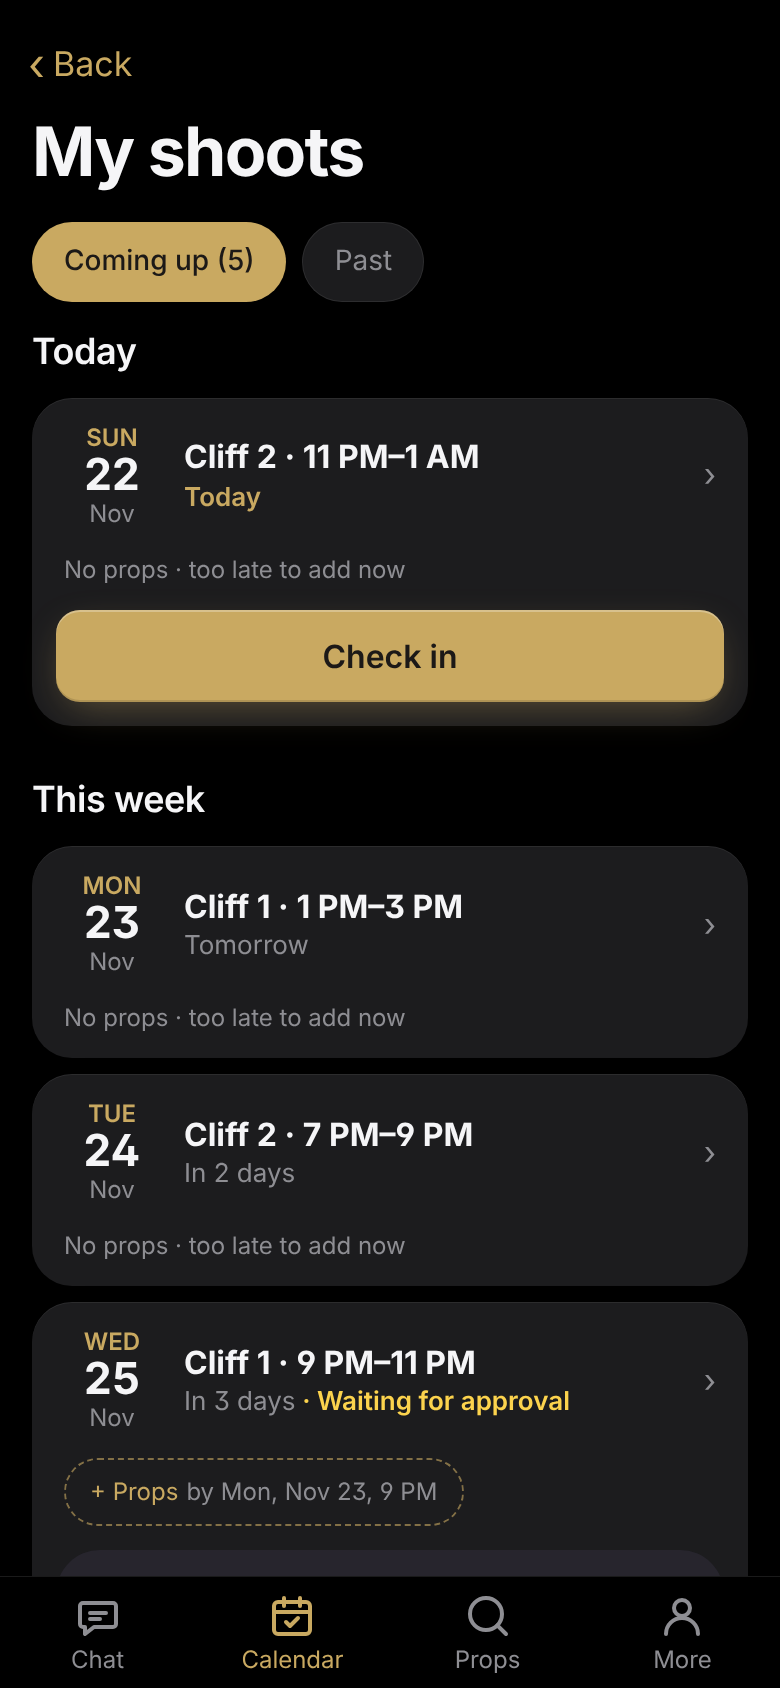
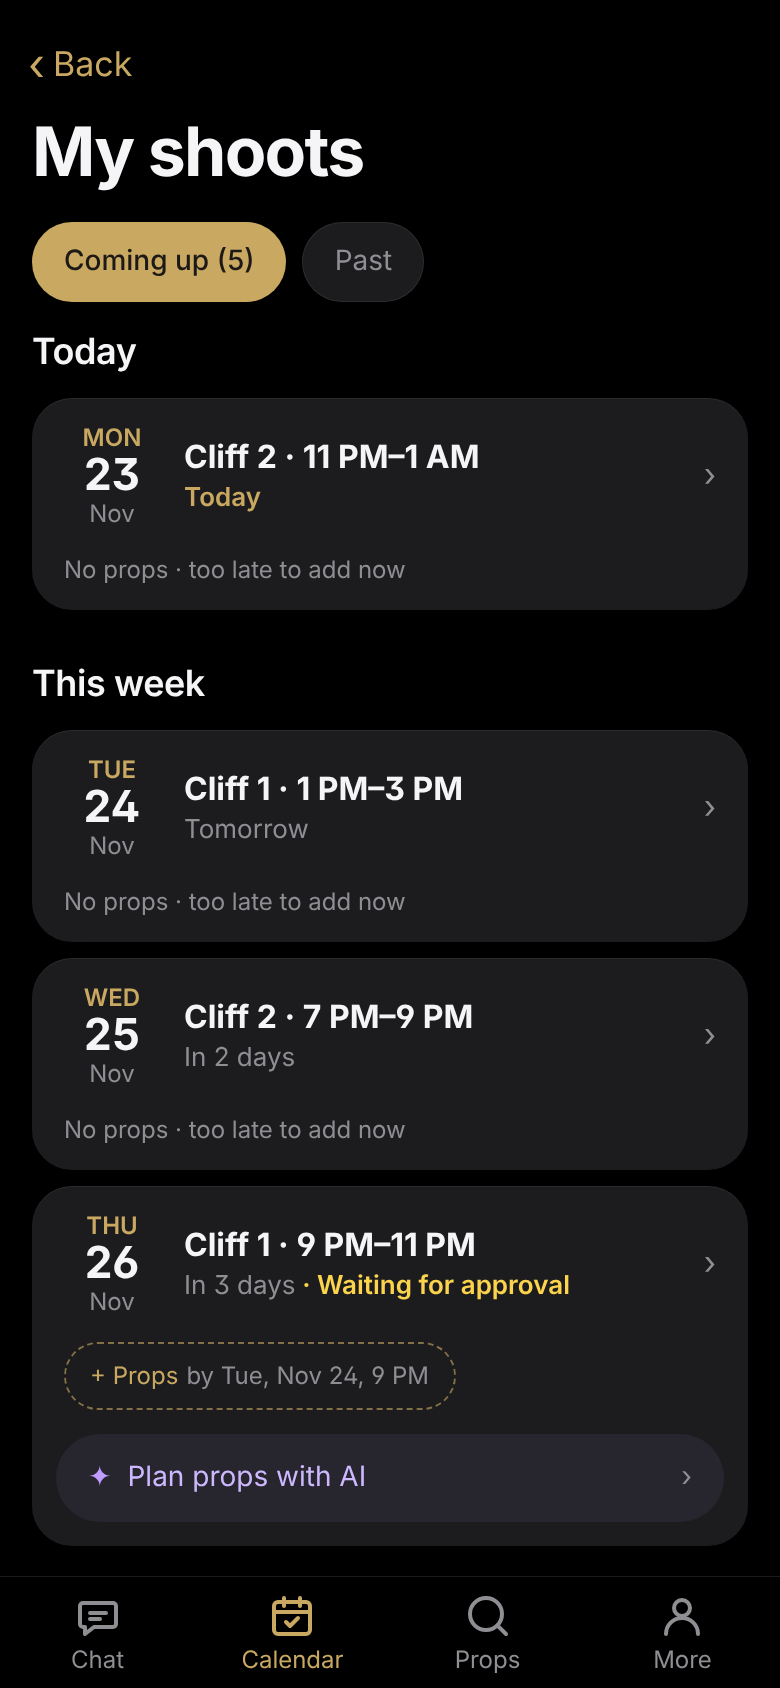
No-check-in tests (server + robot), fresh creator screenshots of the new calendar and booking sheet
Claude-Session: https://claude.ai/code/session_0195R9eKE88wtYnb91k7TdZG

Changed region(s): [[0.0308, 0.3389, 0.9846, 0.955], [0.0923, 0.2464, 0.1846, 0.3081]]

diff --git a/tests/e2e/journeys/03-creator-shoot-day.e2e.ts b/tests/e2e/journeys/03-creator-shoot-day.e2e.ts
@@ -1,9 +1,8 @@
-// Journey 3 — shoot day, in the Chat: the creator checks in with one selfie, reports the slot before them
-// (house left a mess, with a photo and a note), wraps ("what did you film?"); then the equipment team sees the
-// check-in and the report in Schedule team.
+// Journey 3 — shoot day with NO check-in (owner, Nov 24): the creator just films (no selfie card, the chat says there's
+// nothing to do); the equipment team opens the shoot once it has started and marks it filmed (or a no-show, a strike).
 // The test data's own shoots only line up with "now" during the day, so this file writes a shoot that is on
 // RIGHT NOW (started 30 minutes ago) for Nia at Cliff 1, with Jana's shoot just before it, whatever the hour.
-import { test, expect, reseed, signIn, putDoc, getDoc, testPhoto, esc } from '../helpers'
+import { test, expect, reseed, signIn, putDoc, getDoc } from '../helpers'
 
 test.describe.configure({ mode: 'serial' })
 
@@ -16,7 +15,7 @@ function studio(ms: number) {
 const dayBefore = (date: string) => new Date(Date.parse(`${date}T12:00:00Z`) - 86_400_000).toISOString().slice(0, 10)
 const MIN = 60_000
 
-const SHOOT = 'sh-now', BEFORE = 'sh-before', TITLE = 'Robot test: haunted house tour', NOTE = 'Dishes left in the sink'
+const SHOOT = 'sh-now', BEFORE = 'sh-before'
 
 async function putRunningShoots() {
   const fromMs = Date.now() - 30 * MIN
@@ -43,75 +42,25 @@ test.beforeAll(async () => {
   await putRunningShoots()
 })
 
-test('creator checks in with a selfie, reports the slot before, and wraps', async ({ page }) => {
+test('creator: no check-in card on shoot day; "I\'m here" says there is nothing to do', async ({ page }) => {
   await signIn(page, 'newbie')
-
-  await test.step('the Chat says "You\'re up" with one selfie button', async () => {
-    await expect(page.getByText("You're up · check in")).toBeVisible()
-    await expect(page.getByText(/^Cliff 1 · /).first()).toBeVisible()
-    await expect(page.getByText("One selfie with your camera and you're checked in.")).toBeVisible()
-  })
-
-  await test.step('take the selfie', async () => {
-    const chooser = page.waitForEvent('filechooser')
-    await page.getByRole('button', { name: 'Check-in selfie' }).click()
-    await (await chooser).setFiles(testPhoto('selfie.png'))
-  })
-
-  await test.step("someone filmed just before: report Jana's slot (mess + photo + a note)", async () => {
-    await expect(page.getByText("All good with Jana's slot?")).toBeVisible()
-    await page.getByRole('button', { name: 'Report it', exact: true }).click()
-    await page.getByRole('button', { name: 'House was a mess', exact: true }).click()
-    const send = page.getByRole('button', { name: /Check in and tell the team|Add a photo of the mess|Tap what happened/ })
-    await expect(send).toHaveText('Add a photo of the mess')
-    await expect(send).toBeDisabled()
-    const chooser = page.waitForEvent('filechooser')
-    await page.getByRole('button', { name: 'Photo of the mess', exact: true }).click()
-    await (await chooser).setFiles(testPhoto('mess.png'))
-    await page.getByPlaceholder('Anything to add? (optional)').fill(NOTE)
-    await expect(send).toHaveText('Check in and tell the team')
-    await send.click()
-  })
-
-  await test.step('checked in: "Filming now", then wrap with what was filmed', async () => {
-    await expect(page.getByText(/^Filming now · Cliff 1 · /)).toBeVisible()
-    const wrap = page.getByRole('button', { name: 'Wrap', exact: true })
-    await expect(wrap).toBeDisabled()
-    await page.getByRole('textbox', { name: 'What did you film?' }).fill(TITLE)
-    await wrap.click()
-    await expect(page.getByText(/^Filming now/)).toHaveCount(0)
-  })
-
-  await test.step('the shoot page shows the check-in, the set photo and the video', async () => {
-    await page.goto(`/schedule?shoot=${SHOOT}`)
-    await expect(page.getByText(new RegExp(`^Checked in .* · filmed “${esc(TITLE)}”$`))).toBeVisible()
-    await expect(page.getByText('Set photo').first()).toBeVisible()
-  })
+  await expect(page.getByText('Hi Nia.')).toBeVisible()
+  await expect(page.getByText(/You're up · check in/)).toHaveCount(0)
+  await expect(page.getByRole('button', { name: 'Check-in selfie' })).toHaveCount(0)
+  const box = page.getByRole('textbox').last()
+  await box.fill("I'm here")
+  await box.press('Enter')
+  await expect(page.getByText(/no check-in needed, just film/)).toBeVisible()
+  await page.goto(`/schedule?shoot=${SHOOT}`)
+  await expect(page.getByText('Your shoot').first()).toBeVisible()
+  await expect(page.getByRole('button', { name: /^Check in/ })).toHaveCount(0)
 })
 
-test('equipment team sees the check-in and the report in Schedule team', async ({ page }) => {
+test('equipment team: marks the running shoot as filmed on its card', async ({ page }) => {
   await signIn(page, 'gear')
-  await page.goto('/schedule/team')
-  await expect(page.getByRole('heading', { level: 1, name: 'Schedule team' })).toBeVisible()
-
-  await test.step('Check-ins: Nia filmed, with the video name', async () => {
-    // The row: Nia's name, the slot line with the video name, and the "Filmed" pill.
-    const row = page.locator('div').filter({ has: page.getByText('Nia', { exact: true }) }).filter({ hasText: `“${TITLE}”` })
-      .filter({ has: page.getByText('Filmed', { exact: true }) }).last()
-    await expect(row).toBeVisible()
-  })
-
-  await test.step('Reports: Nia reported Jana, mess + note + photo, Dismiss / Strike', async () => {
-    await page.getByRole('button', { name: 'Reports (1)' }).click()
-    await expect(page.getByText('Nia reported Jana')).toBeVisible()
-    await expect(page.getByText('Left the house a mess')).toBeVisible()
-    await expect(page.getByText(`“${NOTE}”`)).toBeVisible()
-    await expect(page.getByRole('button', { name: 'Dismiss' })).toBeVisible()
-    await expect(page.getByRole('button', { name: 'Strike for Jana' })).toBeVisible()
-  })
-
-  await test.step('Dismiss it', async () => {
-    await page.getByRole('button', { name: 'Dismiss' }).click()
-    await expect(page.getByText('No reports to review.')).toBeVisible()
-  })
+  await page.goto(`/schedule?shoot=${SHOOT}`)
+  await expect(page.getByText('Did they film?')).toBeVisible()
+  await page.getByRole('button', { name: 'They filmed', exact: true }).click()
+  await expect(page.getByText('Marked as filmed ✓')).toBeVisible()
+  expect((await getDoc<Record<string, unknown>>(`shoots/${SHOOT}`))!.outcome).toBe('filmed')
 })

diff --git a/tests/functions/attendance.test.ts b/tests/functions/attendance.test.ts
@@ -54,21 +54,21 @@ describe('check in and wrap', () => {
 })
 
 describe('missed check-ins, strikes and pauses', () => {
-  it('a missed check-in can be explained; the team marks it filmed (no strike) or a no-show (strike)', async () => {
-    await shootAt('missed1', ANA, 'Ana', -150)
-    expect((await call('explainMissedCheckIn', { id: 'missed1', text: 'Phone died, we filmed' }, ANA)).ok).toBe(true)
-    const d = await call('decideShoot', { id: 'missed1', outcome: 'filmed' }, MAANIK)
+  it('no check-in (owner, Nov 24): once a shoot has started the team marks it filmed (no strike) or a no-show (strike), once', async () => {
+    await shootAt('done1', ANA, 'Ana', -150)
+    const d = await call('decideShoot', { id: 'done1', outcome: 'filmed' }, MAANIK)
     expect(d.result.strike).toBeNull()
-    expect((await call('decideShoot', { id: 'missed1', outcome: 'noshow' }, MAANIK)).message).toMatch(/already decided/)
+    expect((await call('decideShoot', { id: 'done1', outcome: 'noshow' }, MAANIK)).message).toMatch(/not decided yet/)
+    await shootAt('ns1', ANA, 'Ana', -150)
+    expect((await call('decideShoot', { id: 'ns1', outcome: 'noshow' }, MAANIK)).result.strike).toMatchObject({ strikes: 1 })
+    expect((await getDoc('shoots/ns1'))!.noShow).toBe('missed')
   })
 
-  it('No-show waits for the 12 hours to explain; "They filmed" and an explained shoot can be decided at once', async () => {
-    await shootAt('w1', ANA, 'Ana', -150)
-    const early = await call('decideShoot', { id: 'w1', outcome: 'noshow' }, MAANIK)
-    expect(early.message).toMatch(/can still explain until/)
-    expect((await getDoc('shoots/w1'))!.outcome).toBeUndefined()
-    await call('explainMissedCheckIn', { id: 'w1', text: 'Overslept' }, ANA)
-    expect((await call('decideShoot', { id: 'w1', outcome: 'noshow' }, MAANIK)).result.strike).toMatchObject({ strikes: 1 })
+  it('a shoot that has not started yet cannot be decided; creators cannot decide', async () => {
+    await shootAt('later1', ANA, 'Ana', 600)
+    expect((await call('decideShoot', { id: 'later1', outcome: 'noshow' }, MAANIK)).message).toMatch(/started/)
+    await shootAt('now1', ANA, 'Ana', -30)
+    expect((await call('decideShoot', { id: 'now1', outcome: 'noshow' }, ANA)).ok).toBe(false)
   })
 
   it('2 strikes in 30 days pause prop bookings (not gear); the team can lift it', async () => {
